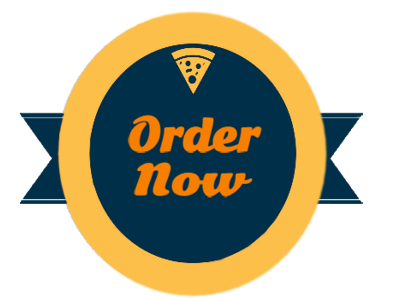
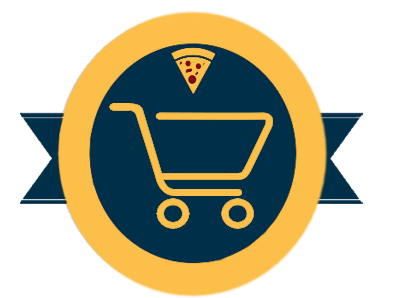
finallygot the cart on the navbar, edited order button linked to cart

Changed region(s): [[0.27, 0.3322, 0.69, 0.7852], [0.45, 0.2114, 0.51, 0.2718]]

diff --git a/client/src/components/Nav/index.js b/client/src/components/Nav/index.js
@@ -8,6 +8,7 @@ import { useStoreContext } from '../../utils/GlobalState';
 import { UPDATE_CATEGORIES, UPDATE_CURRENT_CATEGORY } from '../../utils/actions';
 import { QUERY_CATEGORIES } from '../../utils/queries';
 import { idbPromise } from '../../utils/helpers';
+
 import './style.css'
 
 function Nav() {
@@ -91,50 +92,6 @@ function Nav() {
           <Link to="/" className="logoCircle">
             <img src={MERNlinLogo} alt="MERNLinLogo" />
           </Link>
-          {/* <ul className="navbarLeft">
-            <li>
-              <Link to="/">
-                Home
-              </Link>
-            </li>
-            <li>
-              <Link>
-                Pizza
-              </Link>
-            </li>
-            <li>
-              <Link>
-                Appetizers
-              </Link>
-            </li>
-            <li>
-              <Link>
-                Salads
-              </Link>
-            </li>
-          </ul>
-          <ul className="navbarRight">
-            <li>
-              <Link>
-                Menu
-              </Link>
-            </li>
-            <li>
-              <Link>
-                Rewards
-              </Link>
-            </li>
-            <li>
-              <Link to="/ContactUs">
-                Contact
-              </Link>
-            </li>
-            <li>
-              <Link>
-                About Us
-              </Link>
-            </li>
-          </ul> */}
           <div className="navbarLeft">
             <button onClick={() => {
                   handleClick("");
@@ -166,25 +123,9 @@ function Nav() {
             </button>
           </div>
         </div>
-        <div className="orderButton">
-          <img src={OrderButton} alt="OrderButton" />
-        </div>
       </div>
       {showNavigation()}
     </nav>
-
-    // <header className="flex-row px-1">
-    //   <h1>
-    //     <Link to="/">
-    //       <span role="img" aria-label="shopping bag">🍕</span>
-    //       MERNlin-Pizza
-    //     </Link>
-    //   </h1>
-
-    //   <nav>
-    //     
-    //   </nav>
-    // </header>
   );
 }
 

diff --git a/client/src/components/Cart/style.css b/client/src/components/Cart/style.css
@@ -10,6 +10,7 @@
   padding: .5rem;
   box-shadow: 0 0 1rem rgba(0, 0, 0, .5);
   border-bottom-left-radius: .5rem;
+  z-index: 1;
 }
 
 .cart h2 {
@@ -17,6 +18,7 @@
   border-bottom: 1px solid var(--dark);
   padding-bottom: .5rem;
   margin: 1rem 0;
+  z-index: 1;
 }
 
 .cart .close {
@@ -25,38 +27,44 @@
   right: .5rem;
   cursor: pointer;
   color: var(--tertiary);
+  z-index: 1;
 }
 
 .cart .close:hover {
   text-decoration: underline;
+  z-index: 1;
 }
 
 .cart-closed {
   position: fixed;
   top: 2%;
   right: 1%;
+  margin-top: 17px;
   font-size: 2rem;
   cursor: pointer;
-  background-color: var(--secondary);
   border-radius: 50%;
   padding: .25rem;
-  width: 50px;
+  width: 120px;
   height: 50px;
+  z-index: 1;
 }
 
 .cart-closed:hover {
   transform: rotate(8deg);
+  z-index: 1;
 }
 
 .cart img {
   width: 70px;
   margin-right: 1rem;
+  z-index: 1;
 }
 
 .cart input {
   width: 50px;
   padding: 0;
   margin: 0 .5rem 1rem 0;
+  z-index: 1;
 }
 
 @media screen and (max-width: 768px) {
@@ -66,10 +74,12 @@
     max-height: auto;
     box-shadow: none;
     background-color: inherit;
+    z-index: 1;
   }
 
   .cart-closed {
     position: relative;
     margin: 0 auto;
+    z-index: 1;
   }
 }

diff --git a/client/src/components/Cart/index.js b/client/src/components/Cart/index.js
@@ -5,6 +5,7 @@ import { QUERY_CHECKOUT } from "../../utils/queries"
 import { idbPromise } from "../../utils/helpers"
 import CartItem from "../CartItem";
 import Auth from "../../utils/auth";
+import OrderButton from '../Images/orderNowButton.png'
 import { useStoreContext } from "../../utils/GlobalState";
 import { TOGGLE_CART, ADD_MULTIPLE_TO_CART } from "../../utils/actions";
 import "./style.css";
@@ -63,9 +64,7 @@ const Cart = () => {
   if (!state.cartOpen) {
     return (
       <div className="cart-closed" onClick={toggleCart}>
-        <span
-          role="img"
-          aria-label="trash">🛒</span>
+        <img src={OrderButton} alt="OrderButton" />
       </div>
     );
   }
@@ -95,10 +94,7 @@ const Cart = () => {
         </div>
       ) : (
           <h3>
-            <span role="img" aria-label="shocked">
-              😱
-          </span>
-          You haven't added anything to your cart yet!
+          Your cart is empty
           </h3>
         )}
     </div>
